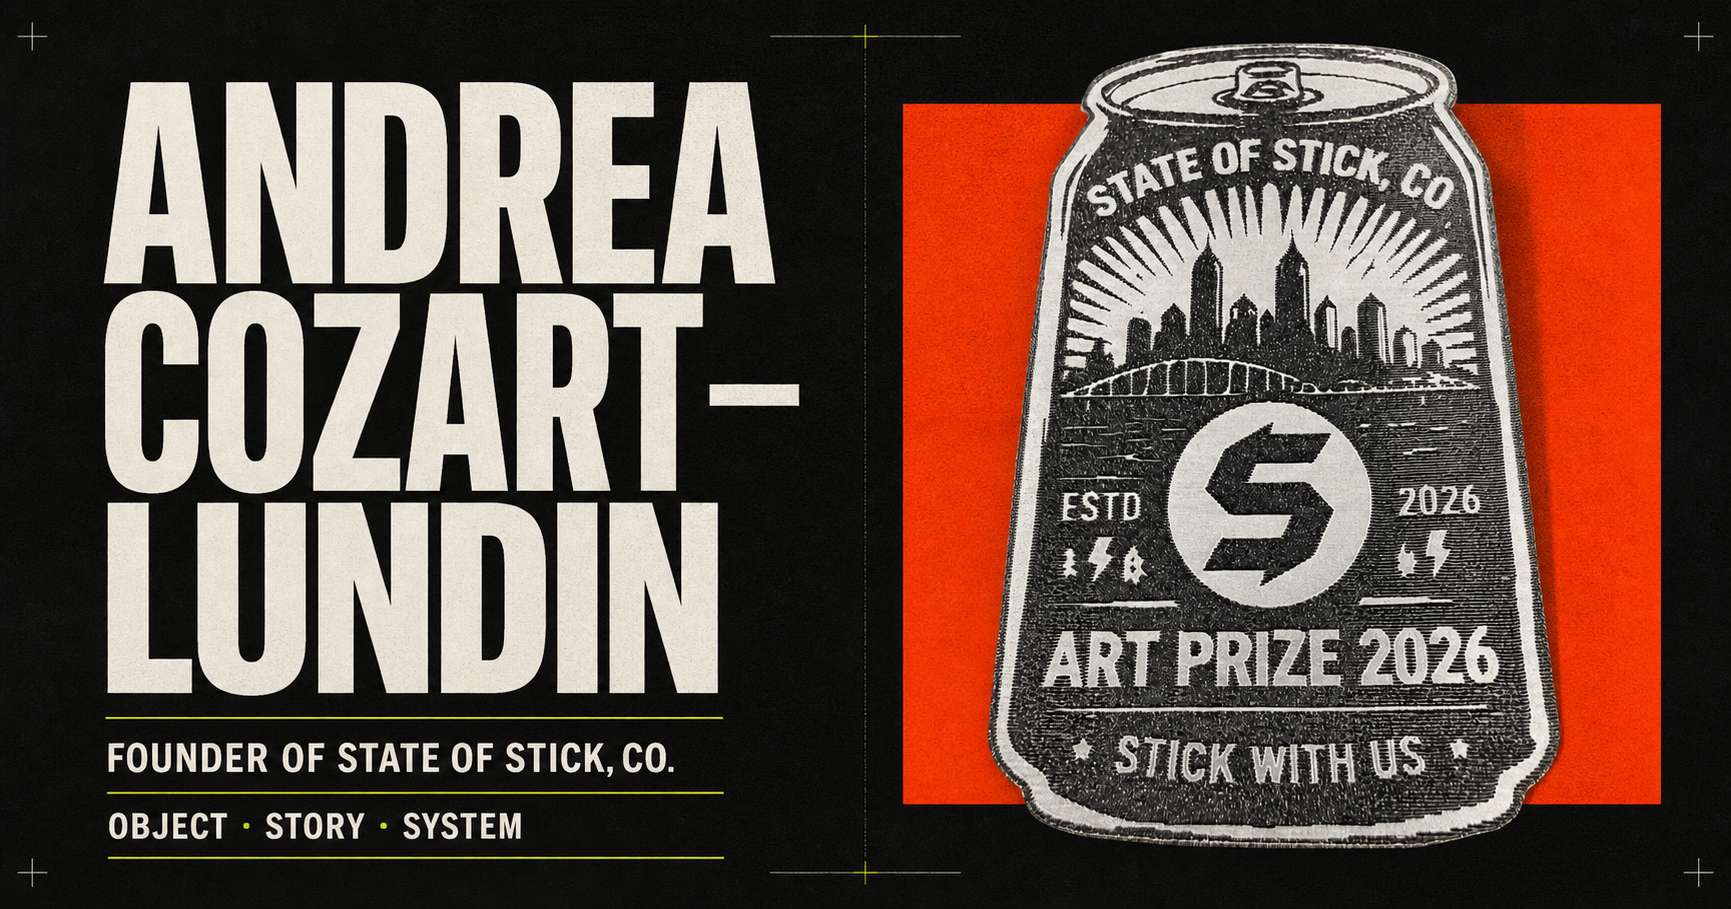
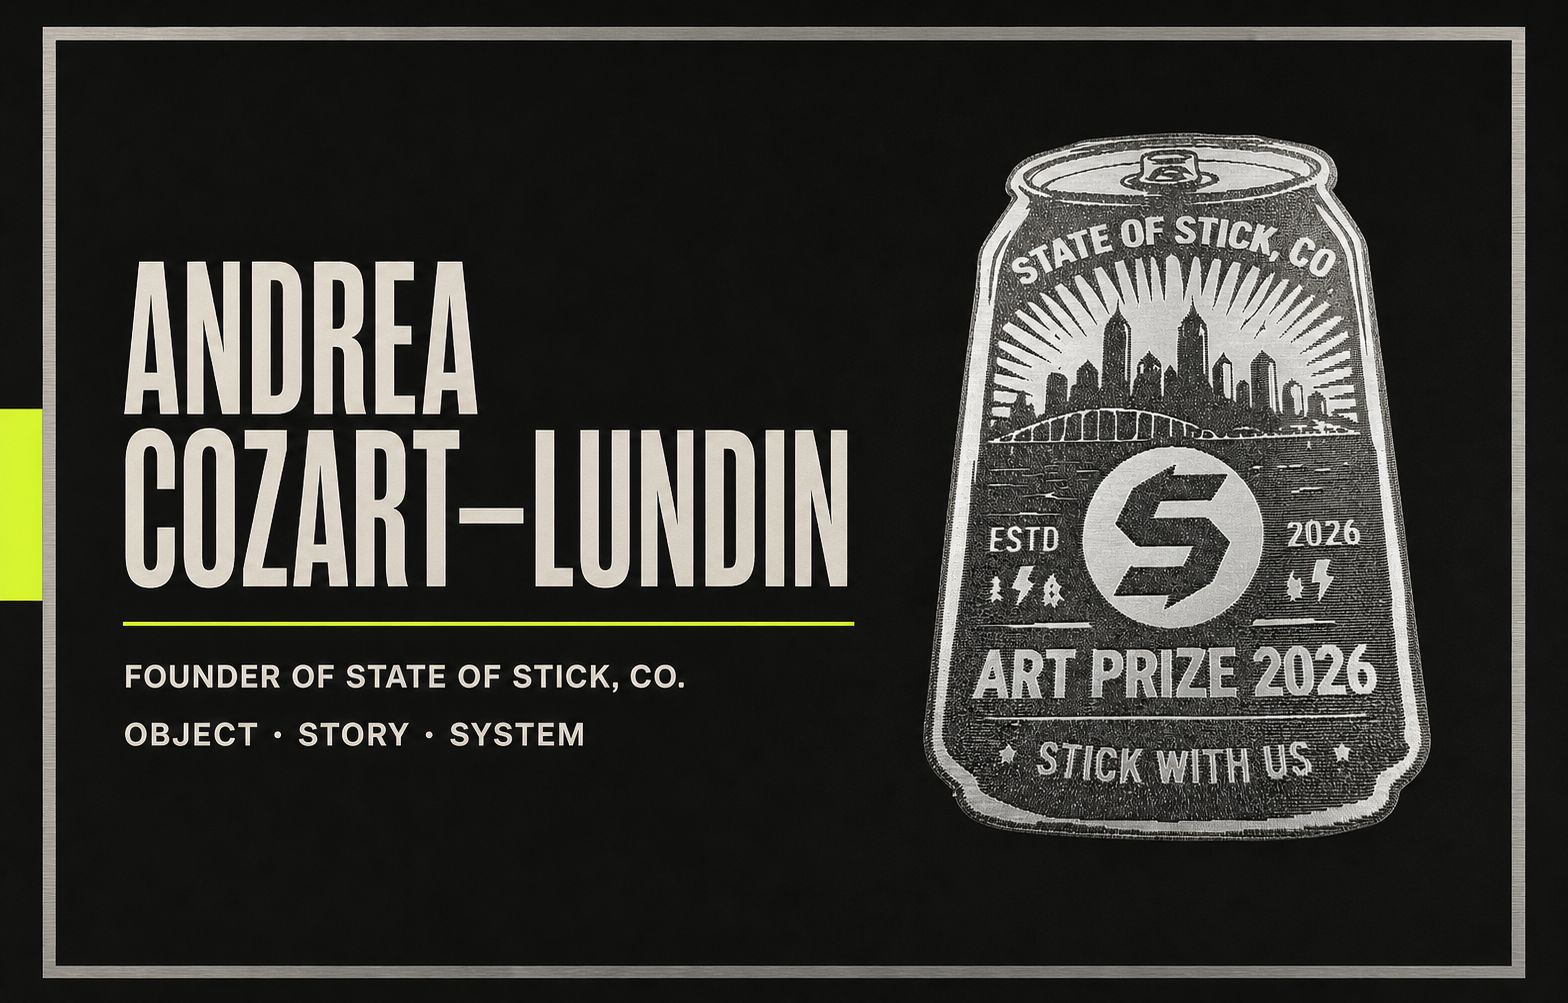
Refine portfolio emblem presentation and palette

diff --git a/src/index.css b/src/index.css
@@ -12,8 +12,9 @@
   text-rendering: optimizeLegibility;
   --paper: #f0eee5;
   --ink: #171713;
-  --orange: #ff4d00;
-  --acid: #d7ff3f;
+  --signal: #e8ff45;
+  --signal-soft: #f4ffae;
+  --metal: #cbc9bf;
   --line: rgba(23, 23, 19, 0.22);
 }
 
@@ -43,7 +44,7 @@ button {
 
 ::selection {
   color: var(--paper);
-  background: var(--orange);
+  background: var(--signal);
 }
 
 .portfolio-shell {
@@ -101,7 +102,7 @@ button {
 .desktop-nav a {
   padding: 12px 16px;
   color: var(--ink);
-  background: var(--acid);
+  background: var(--signal);
 }
 
 .menu-toggle {
@@ -158,7 +159,7 @@ button {
   width: 13px;
   height: 100%;
   content: '';
-  background: var(--orange);
+  background: var(--signal);
 }
 
 .hero-copy {
@@ -191,7 +192,7 @@ button {
 .status-dot {
   width: 8px;
   height: 8px;
-  background: var(--acid);
+  background: var(--signal);
   border-radius: 50%;
   box-shadow: 0 0 0 5px rgba(215, 255, 63, 0.12);
 }
@@ -215,7 +216,7 @@ button {
 }
 
 .hero h1 em {
-  color: var(--orange);
+  color: var(--signal);
   font-style: normal;
 }
 
@@ -264,7 +265,7 @@ button {
 .button-primary {
   padding: 17px 20px;
   color: var(--ink);
-  background: var(--acid);
+  background: var(--signal);
 }
 
 .text-link {
@@ -286,26 +287,38 @@ button {
 
 .object-frame {
   position: relative;
-  width: min(86%, 450px);
-  transform: rotate(4deg);
-  filter: drop-shadow(28px 34px 24px rgba(0, 0, 0, 0.42));
+  display: grid;
+  width: min(88%, 470px);
+  min-height: 600px;
+  place-items: center;
+  padding: 34px 24px;
+  background:
+    linear-gradient(135deg, rgba(255, 255, 255, 0.1), transparent 35%),
+    #0d0d0b;
+  border: 1px solid rgba(240, 238, 229, 0.32);
+  box-shadow:
+    0 34px 70px rgba(0, 0, 0, 0.42),
+    inset 0 0 0 12px #171713,
+    inset 0 0 0 13px rgba(240, 238, 229, 0.14);
+  transform: rotate(2deg);
 }
 
 .object-frame::after {
   position: absolute;
-  inset: 12% -6% -2% 5%;
+  inset: 22px -18px -18px 22px;
   z-index: -1;
   content: '';
-  background: var(--orange);
-  transform: rotate(-7deg);
+  background: var(--signal);
+  transform: rotate(-3deg);
 }
 
 .object-frame img {
   display: block;
-  width: 100%;
-  height: auto;
-  mix-blend-mode: screen;
-  filter: contrast(1.12) grayscale(1);
+  width: auto;
+  max-width: 100%;
+  height: 540px;
+  object-fit: contain;
+  filter: drop-shadow(0 22px 18px rgba(0, 0, 0, 0.55)) contrast(1.03);
 }
 
 .object-stamp {
@@ -315,7 +328,7 @@ button {
   z-index: 2;
   padding: 9px 12px;
   color: var(--ink);
-  background: var(--acid);
+  background: var(--signal);
   transform: rotate(6deg);
 }
 
@@ -355,7 +368,10 @@ button {
 
 .section-kicker {
   margin: 0 0 36px;
-  color: var(--orange);
+  color: var(--ink);
+  background: var(--signal);
+  padding: 7px 10px;
+  width: fit-content;
   font-weight: 500;
 }
 
@@ -367,7 +383,7 @@ button {
 
 .manifesto h2 span {
   text-decoration: underline;
-  text-decoration-color: var(--orange);
+  text-decoration-color: var(--signal);
   text-decoration-thickness: 0.08em;
   text-underline-offset: 0.12em;
 }
@@ -400,7 +416,7 @@ button {
   display: flex;
   align-items: center;
   justify-content: space-between;
-  color: var(--orange);
+  color: var(--ink);
   font-family: 'DM Mono', monospace;
   font-size: 12px;
 }
@@ -482,15 +498,27 @@ button {
   min-height: 540px;
   overflow: hidden;
   background:
-    radial-gradient(circle at 25% 20%, rgba(215, 255, 63, 0.18), transparent 25%),
-    var(--orange);
+    linear-gradient(135deg, rgba(255, 255, 255, 0.78), transparent 34%),
+    repeating-linear-gradient(90deg, rgba(23, 23, 19, 0.025) 0 1px, transparent 1px 5px),
+    var(--metal);
 }
 
 .work-image::before {
   position: absolute;
   inset: 18px;
   content: '';
-  border: 1px solid rgba(23, 23, 19, 0.4);
+  border: 1px solid rgba(23, 23, 19, 0.62);
+}
+
+.work-image::after {
+  position: absolute;
+  right: 30px;
+  bottom: 26px;
+  content: 'PHYSICAL PROOF / 01';
+  color: rgba(23, 23, 19, 0.7);
+  font-family: 'DM Mono', monospace;
+  font-size: 10px;
+  letter-spacing: 0.12em;
 }
 
 .work-image img {
@@ -500,8 +528,7 @@ button {
   height: 470px;
   margin: auto;
   object-fit: contain;
-  mix-blend-mode: multiply;
-  filter: contrast(1.08) grayscale(1);
+  filter: drop-shadow(0 22px 18px rgba(23, 23, 19, 0.28)) contrast(1.03);
 }
 
 .work-content {
@@ -511,7 +538,7 @@ button {
 
 .work-eyebrow {
   margin: 0 0 22px;
-  color: var(--acid);
+  color: var(--signal);
 }
 
 .work-content h3 {
@@ -549,14 +576,16 @@ button {
   width: fit-content;
   padding-bottom: 7px;
   color: var(--paper);
-  border-bottom: 1px solid var(--orange);
+  border-bottom: 1px solid var(--signal);
 }
 
 .about-section {
   display: grid;
   grid-template-columns: minmax(280px, 0.8fr) minmax(0, 1.2fr);
   gap: clamp(60px, 9vw, 150px);
-  background: var(--acid);
+  background:
+    linear-gradient(90deg, var(--signal) 0 14px, transparent 14px),
+    var(--paper);
 }
 
 .about-portrait {
@@ -632,7 +661,7 @@ button {
 .discipline-list svg {
   width: 15px;
   height: 15px;
-  color: var(--orange);
+  color: var(--ink);
   stroke-width: 3;
 }
 
@@ -664,12 +693,13 @@ button {
   display: grid;
   grid-template-columns: 1.25fr 0.75fr;
   gap: 80px;
-  color: var(--paper);
-  background: var(--orange);
+  color: var(--ink);
+  background: var(--signal);
 }
 
 .contact-section .section-kicker {
-  color: var(--ink);
+  color: var(--signal);
+  background: var(--ink);
 }
 
 .contact-section h2 {
@@ -685,7 +715,7 @@ button {
   width: 42px;
   height: 42px;
   margin-bottom: 40px;
-  color: var(--acid);
+  color: var(--ink);
 }
 
 .contact-action p {

diff --git a/index.html b/index.html
@@ -25,8 +25,8 @@
     <meta property="og:title" content="Andrea Cozart-Lundin | Founder of State of Stick, Co." />
     <meta property="og:description" content="Andrea Cozart-Lundin is the founder of State of Stick, Co., a Michigan connected-product studio. Creative technology, laser fabrication, NFC and QR experiences, public art, and full-stack product engineering." />
     <meta property="og:image" content="https://andreacozart.me/og.png" />
-    <meta property="og:image:width" content="1792" />
-    <meta property="og:image:height" content="1024" />
+    <meta property="og:image:width" content="1568" />
+    <meta property="og:image:height" content="1003" />
     <meta property="og:image:alt" content="Andrea Cozart-Lundin, founder of State of Stick, Co. — object, story, system" />
     <meta property="og:site_name" content="Andrea Cozart-Lundin Portfolio" />
     <meta property="og:locale" content="en_US" />
